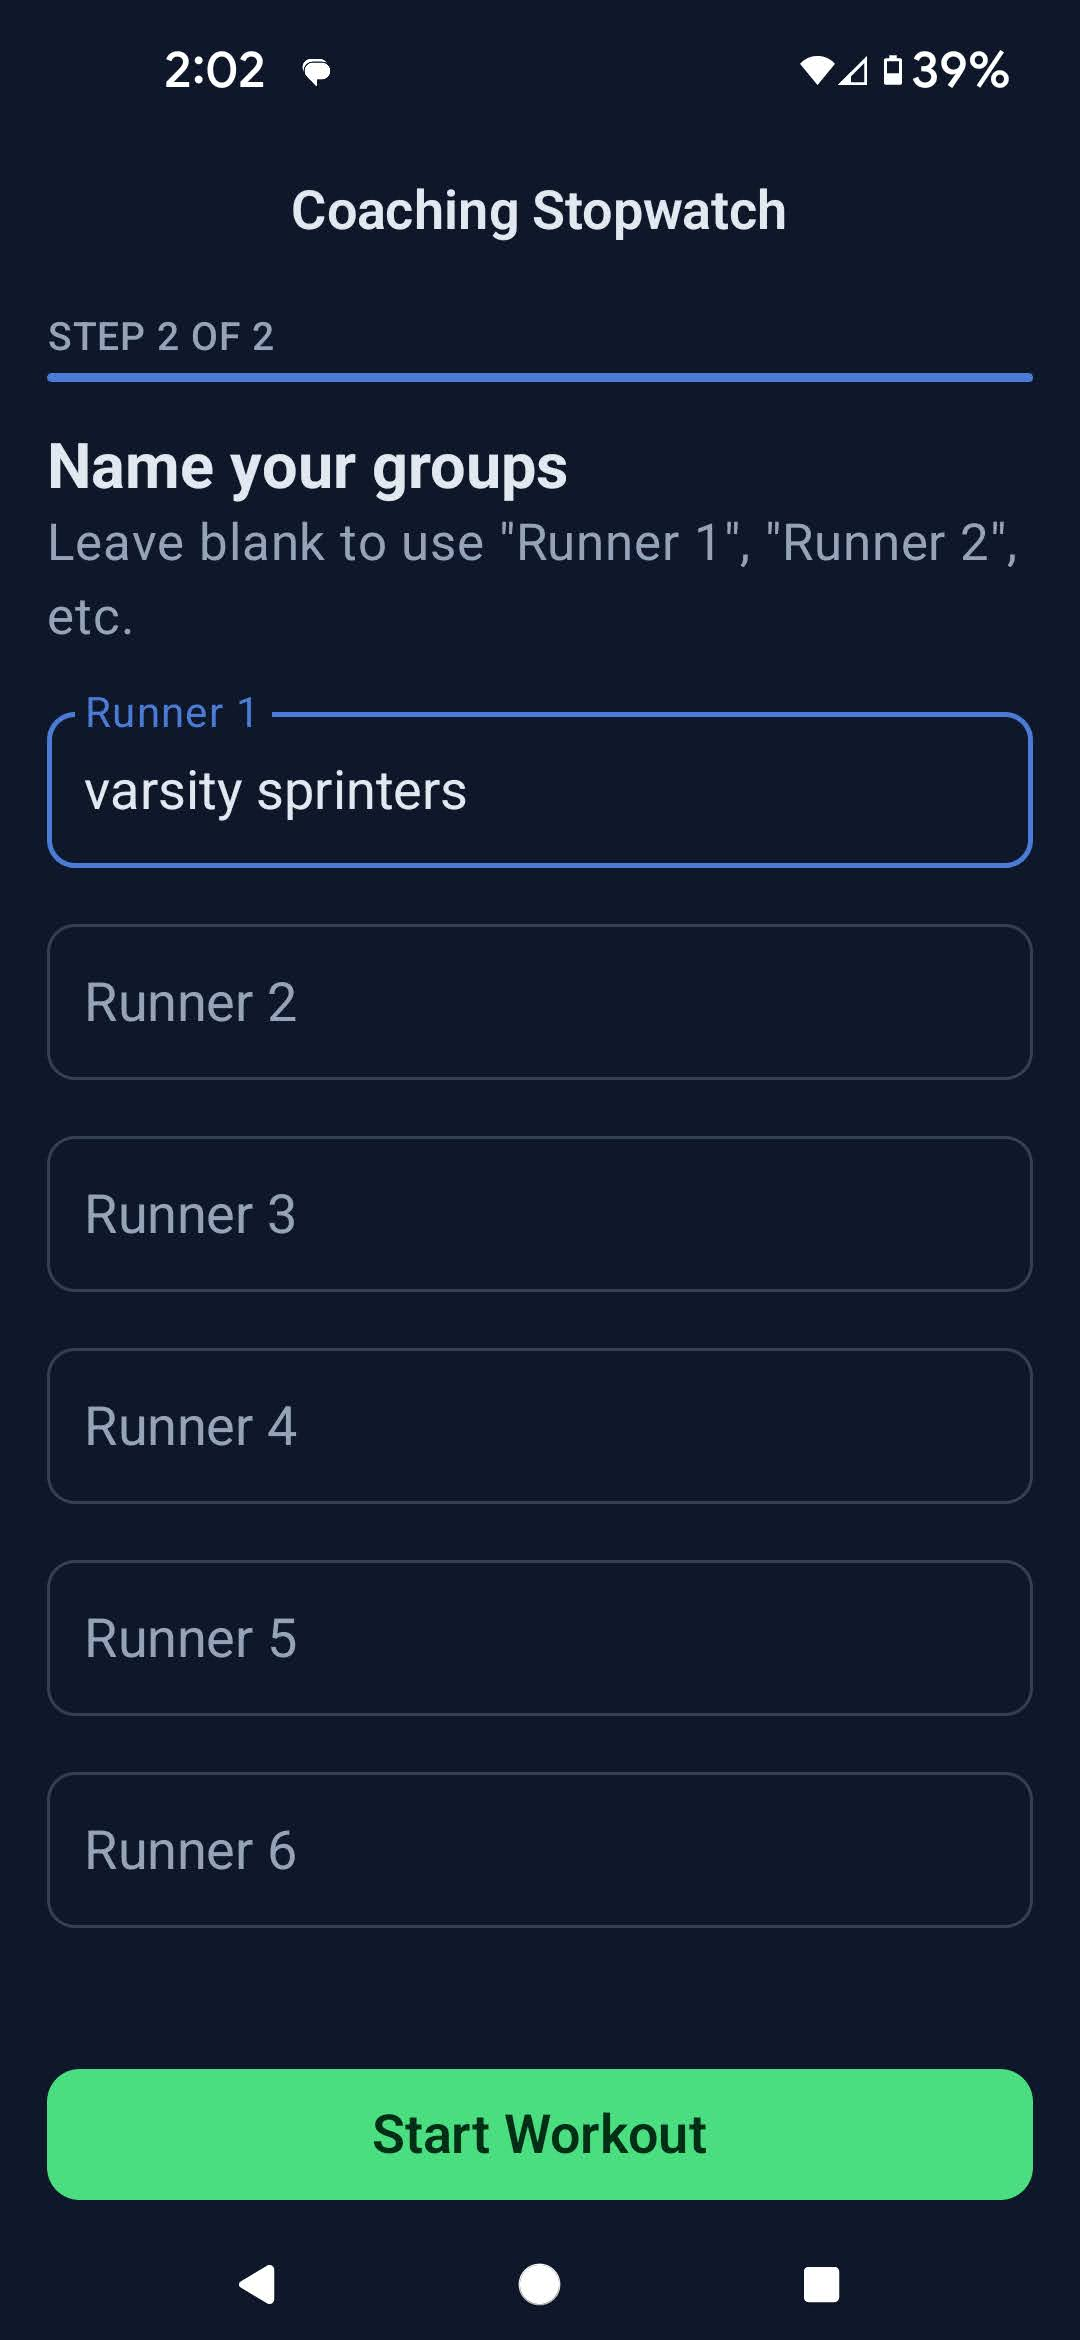
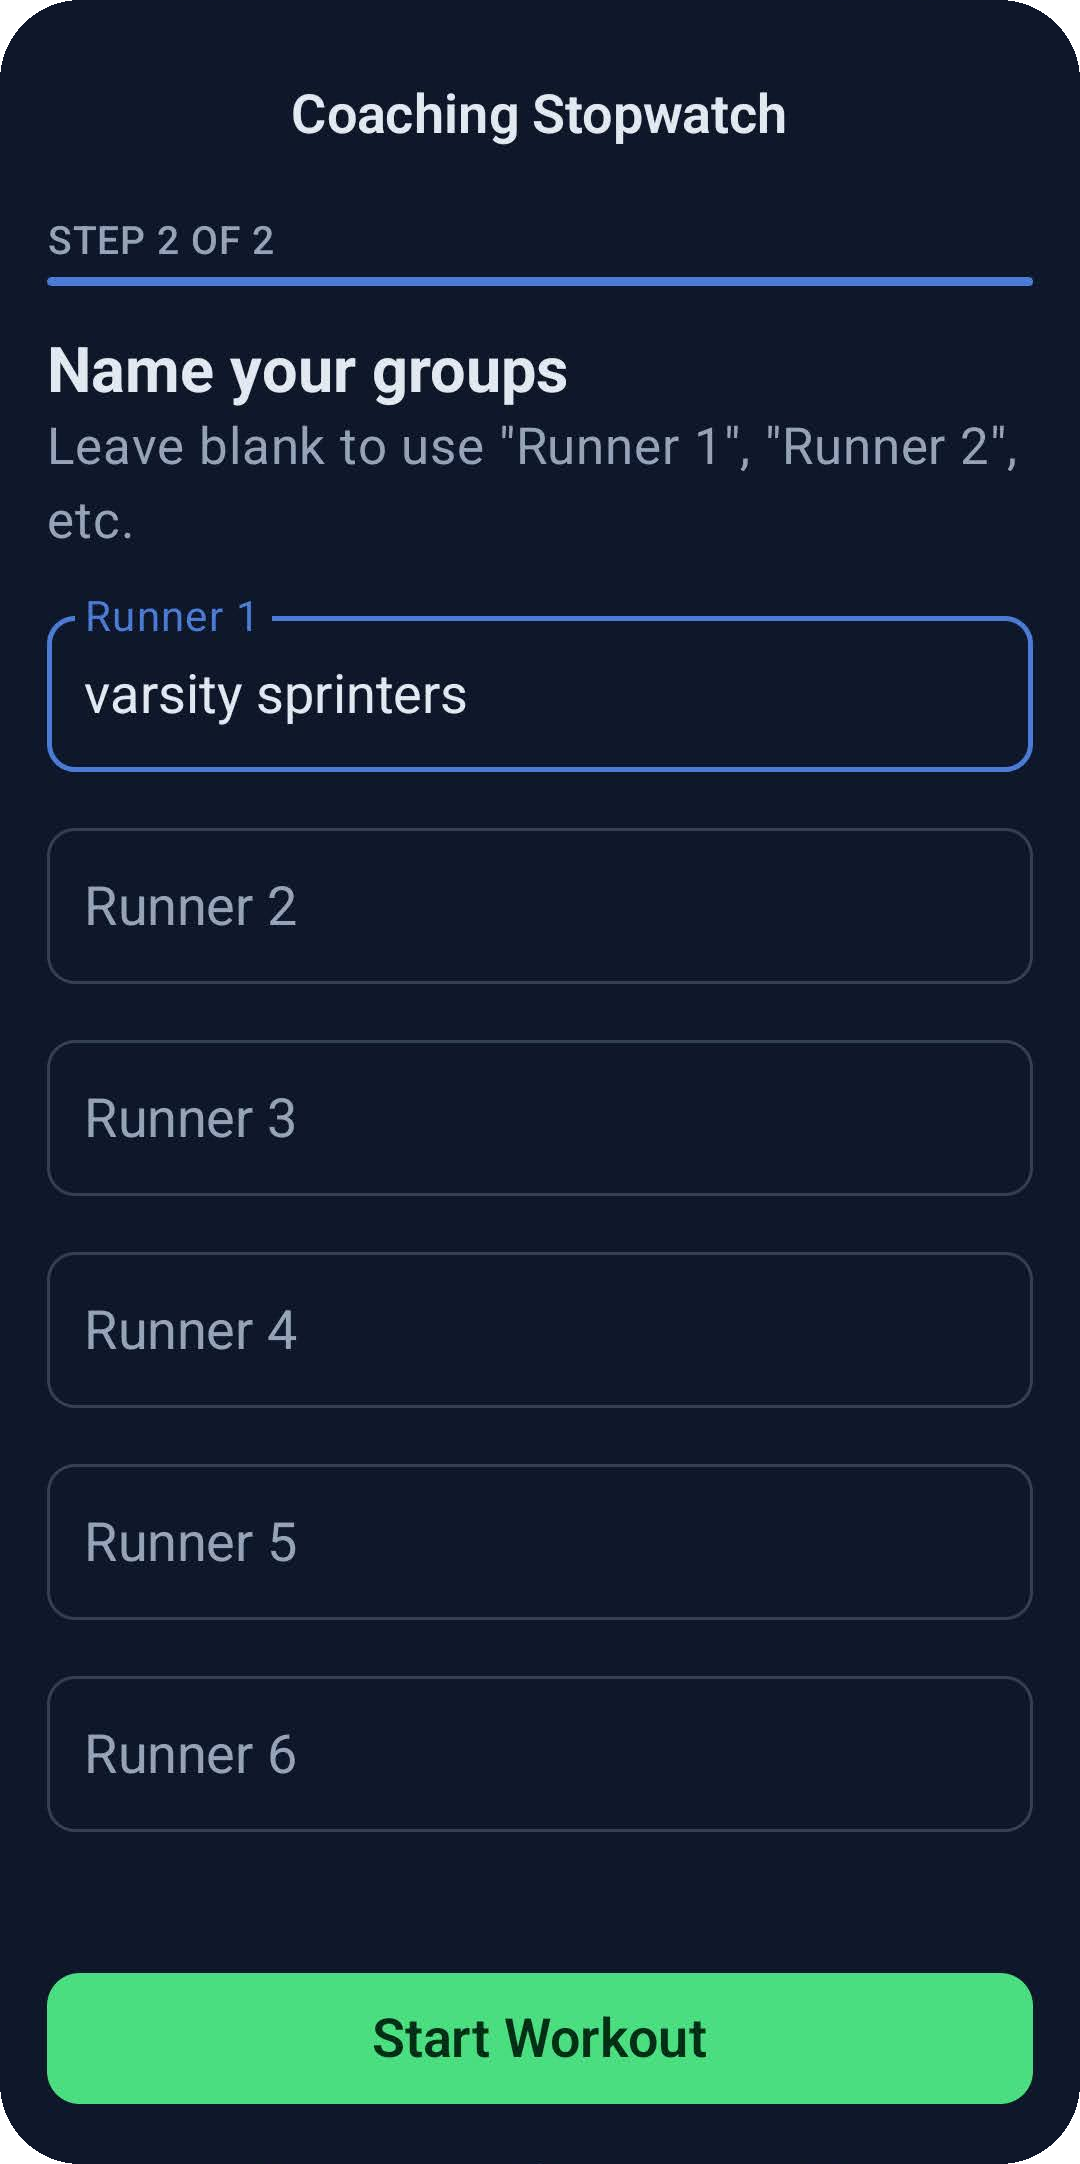
Update aspect ratio in index.html and replace screenshot assets

diff --git a/index.html b/index.html
@@ -20,6 +20,8 @@
     --amber:#9C6B1F;
     --line:#C9CCC2;
     --white:#FFFFFF;
+    --run:#4ADE80;
+    --rest:#4D1D97;
     --maxw:760px;
   }
   *{box-sizing:border-box;}
@@ -62,7 +64,7 @@
   .hero{padding:64px 0 48px;}
   .hero h1{
     font-size:clamp(2.4rem, 6vw, 3.6rem);
-    max-width:11ch;
+    max-width:18ch;
     color:var(--ink);
   }
   .hero p.sub{
@@ -70,6 +72,12 @@
     color:var(--muted);
     font-size:1.1rem;
     margin:18px 0 32px;
+  }
+  .stopwatch-demos{
+    display:flex;
+    flex-wrap:wrap;
+    gap:12px;
+    margin-bottom:32px;
   }
   .stopwatch-demo{
     display:inline-flex;
@@ -79,24 +87,37 @@
     border:1px solid var(--line);
     border-radius:10px;
     padding:16px 22px;
-    margin-bottom:32px;
+  }
+  .stopwatch-demo.run{
+    background:var(--run);
+    border-color:#3ec973;
+  }
+  .stopwatch-demo.rest{
+    background:var(--rest);
+    border-color:#5c2aad;
   }
   .stopwatch-demo .dot{
-    width:9px; height:9px; border-radius:50%; background:var(--clay);
-    box-shadow:0 0 0 4px rgba(181,67,43,0.15);
+    width:9px; height:9px; border-radius:50%; background:var(--ink);
+    box-shadow:0 0 0 4px rgba(22,33,28,0.18);
+  }
+  .stopwatch-demo.rest .dot{
+    background:#fff;
+    box-shadow:0 0 0 4px rgba(255,255,255,0.22);
   }
   .stopwatch-demo .label{
     font-size:0.78rem;
-    color:var(--muted);
+    color:var(--ink);
     text-transform:uppercase;
     letter-spacing:0.06em;
     margin-bottom:2px;
   }
+  .stopwatch-demo.rest .label{color:rgba(255,255,255,0.85);}
   .stopwatch-demo .time{
     font-size:1.7rem;
     font-weight:600;
     color:var(--ink);
   }
+  .stopwatch-demo.rest .time{color:#fff;}
   .cta-row{display:flex; align-items:center; gap:16px; flex-wrap:wrap;}
   .cta-row .badge-link img{height:54px;}
   .cta-note{color:var(--muted); font-size:0.92rem;}
@@ -146,7 +167,7 @@
     display:block;
     width:100%;
     border-radius:16px;
-    aspect-ratio:1080/2340;
+    aspect-ratio:1080/2164;
     object-fit:cover;
   }
 
@@ -270,14 +291,23 @@
 
   <section class="hero">
     <div class="wrap">
-      <h1>Every runner. Every split. One screen.</h1>
+      <h1>Every runner/group.<br>Every split.<br>One Device.</h1>
       <p class="sub">Coaching Stopwatch runs up to ten independent timers side by side, so you can time run and rest intervals for a whole practice group without juggling stopwatches or a clipboard.</p>
 
-      <div class="stopwatch-demo">
-        <span class="dot" aria-hidden="true"></span>
-        <div>
-          <div class="label">Runner 1 · Running</div>
-          <div class="time mono" id="demoTime">00:00.00</div>
+      <div class="stopwatch-demos">
+        <div class="stopwatch-demo run">
+          <span class="dot" aria-hidden="true"></span>
+          <div>
+            <div class="label">Runner 1 · Running</div>
+            <div class="time mono" id="demoTime">00:00.00</div>
+          </div>
+        </div>
+        <div class="stopwatch-demo rest">
+          <span class="dot" aria-hidden="true"></span>
+          <div>
+            <div class="label">Runner 2 · Resting</div>
+            <div class="time mono" id="demoTimeRest">00:15.78</div>
+          </div>
         </div>
       </div>
 
@@ -432,24 +462,28 @@
 
 <script>
   (function(){
-    var el = document.getElementById('demoTime');
-    var reduce = window.matchMedia('(prefers-reduced-motion: reduce)').matches;
-    if(reduce){ el.textContent = '00:26.95'; return; }
-    var start = Date.now();
-    function tick(){
-      var elapsed = Date.now() - start;
-      if(elapsed > 59990){ start = Date.now(); elapsed = 0; }
-      var s = Math.floor(elapsed/1000);
-      var cs = Math.floor((elapsed%1000)/10);
-      el.textContent = String(s).padStart(2,'0') + ':' + String(cs).padStart(2,'0') + '.' + '0';
-      /* format mm:ss.cs -> keep simple 00:00.00 */
-      var mins = Math.floor(elapsed/60000);
-      var secs = Math.floor((elapsed%60000)/1000);
-      var hund = Math.floor((elapsed%1000)/10);
-      el.textContent = String(mins).padStart(2,'0') + ':' + String(secs).padStart(2,'0') + '.' + String(hund).padStart(2,'0');
+    function format(ms){
+      var mins = Math.floor(ms/60000);
+      var secs = Math.floor((ms%60000)/1000);
+      var hund = Math.floor((ms%1000)/10);
+      return String(mins).padStart(2,'0') + ':' + String(secs).padStart(2,'0') + '.' + String(hund).padStart(2,'0');
     }
-    tick();
-    setInterval(tick, 40);
+    function runDemo(id, offsetMs, reducedText){
+      var el = document.getElementById(id);
+      if(!el) return;
+      var reduce = window.matchMedia('(prefers-reduced-motion: reduce)').matches;
+      if(reduce){ el.textContent = reducedText; return; }
+      var start = Date.now() - offsetMs;
+      function tick(){
+        var elapsed = Date.now() - start;
+        if(elapsed > 59990){ start = Date.now(); elapsed = 0; }
+        el.textContent = format(elapsed);
+      }
+      tick();
+      setInterval(tick, 40);
+    }
+    runDemo('demoTime', 0, '00:26.95');
+    runDemo('demoTimeRest', 15780, '00:15.78');
   })();
 </script>
 
